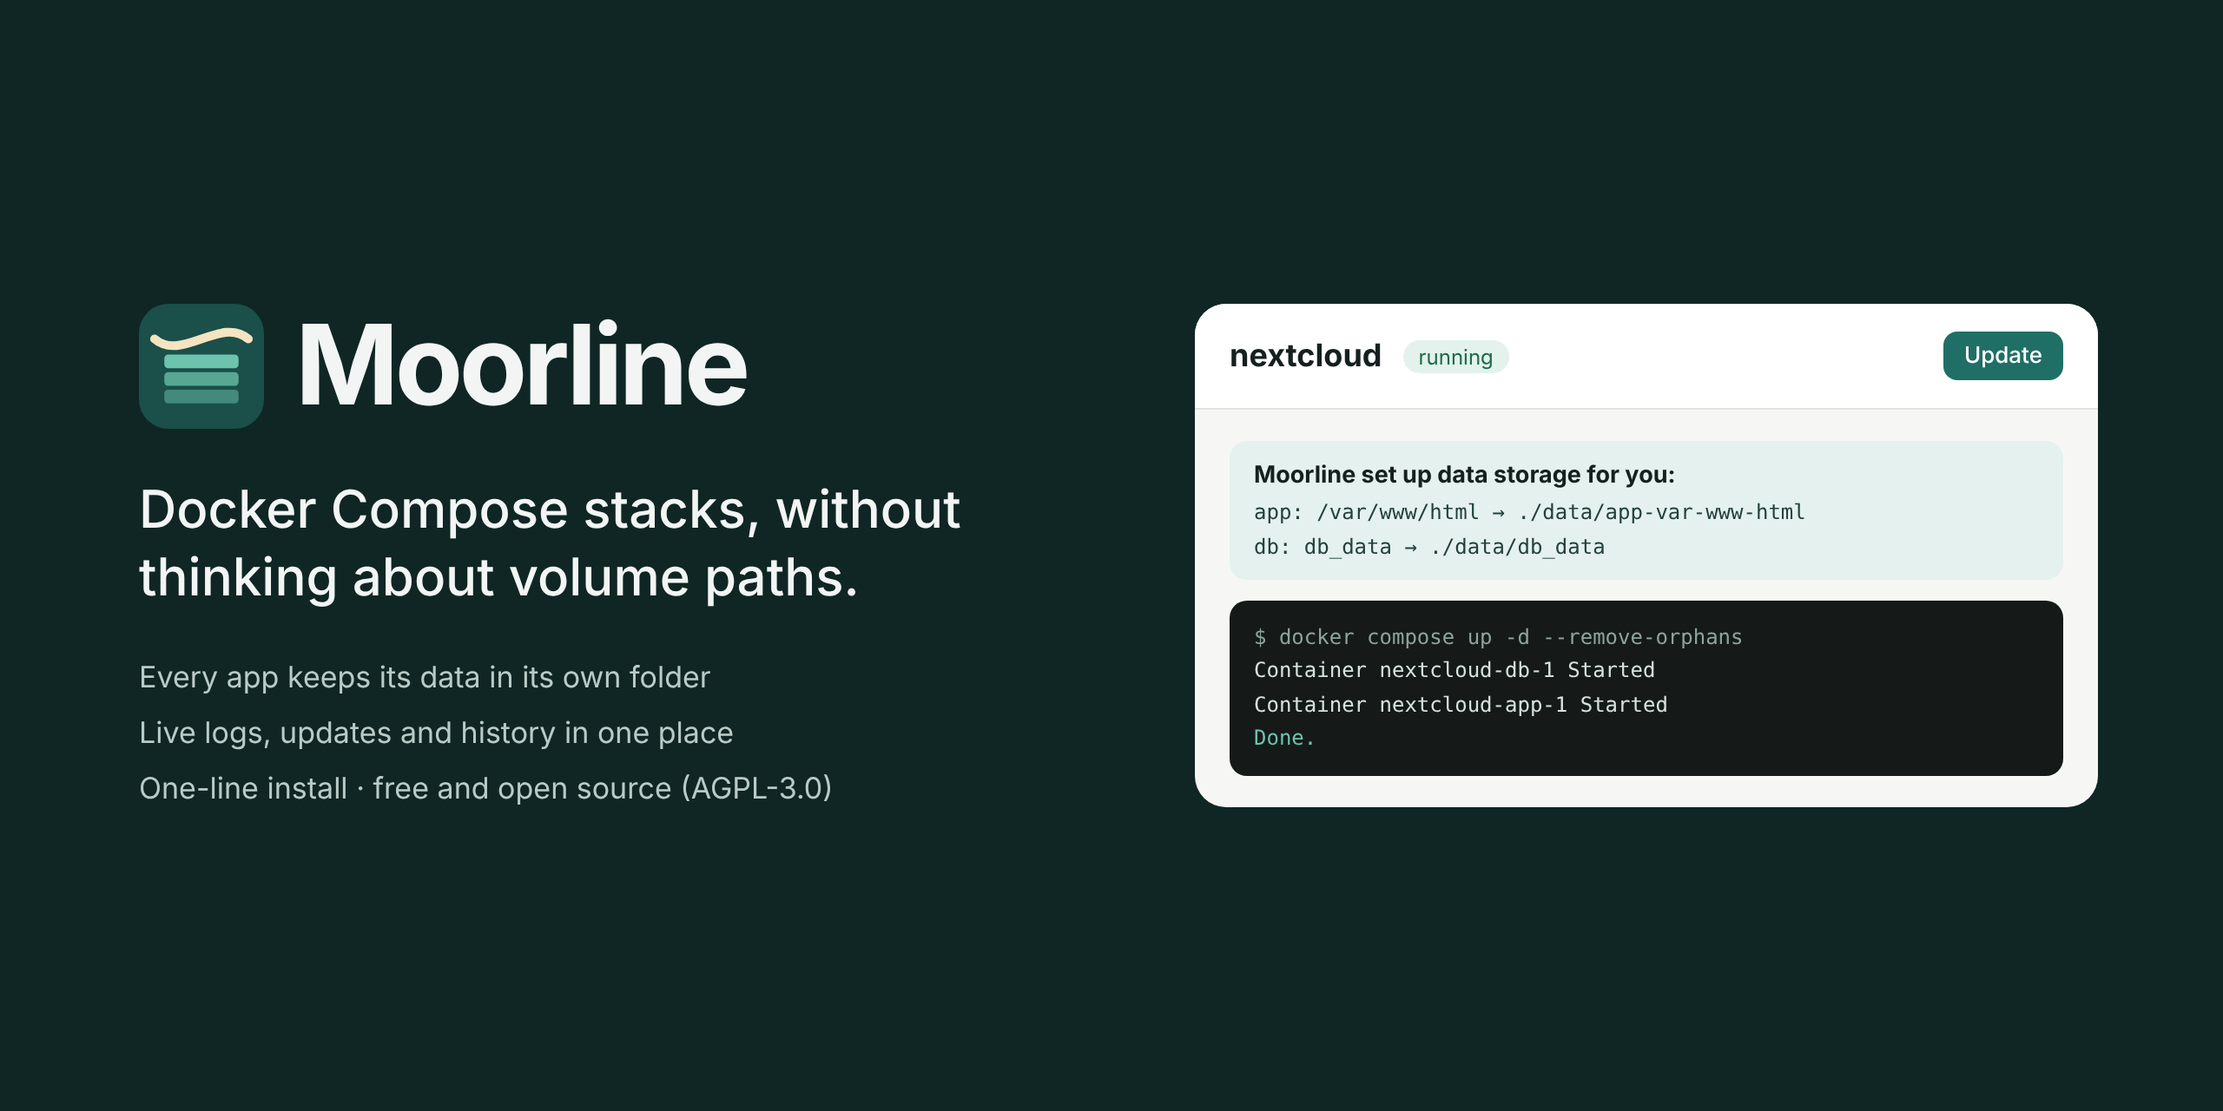
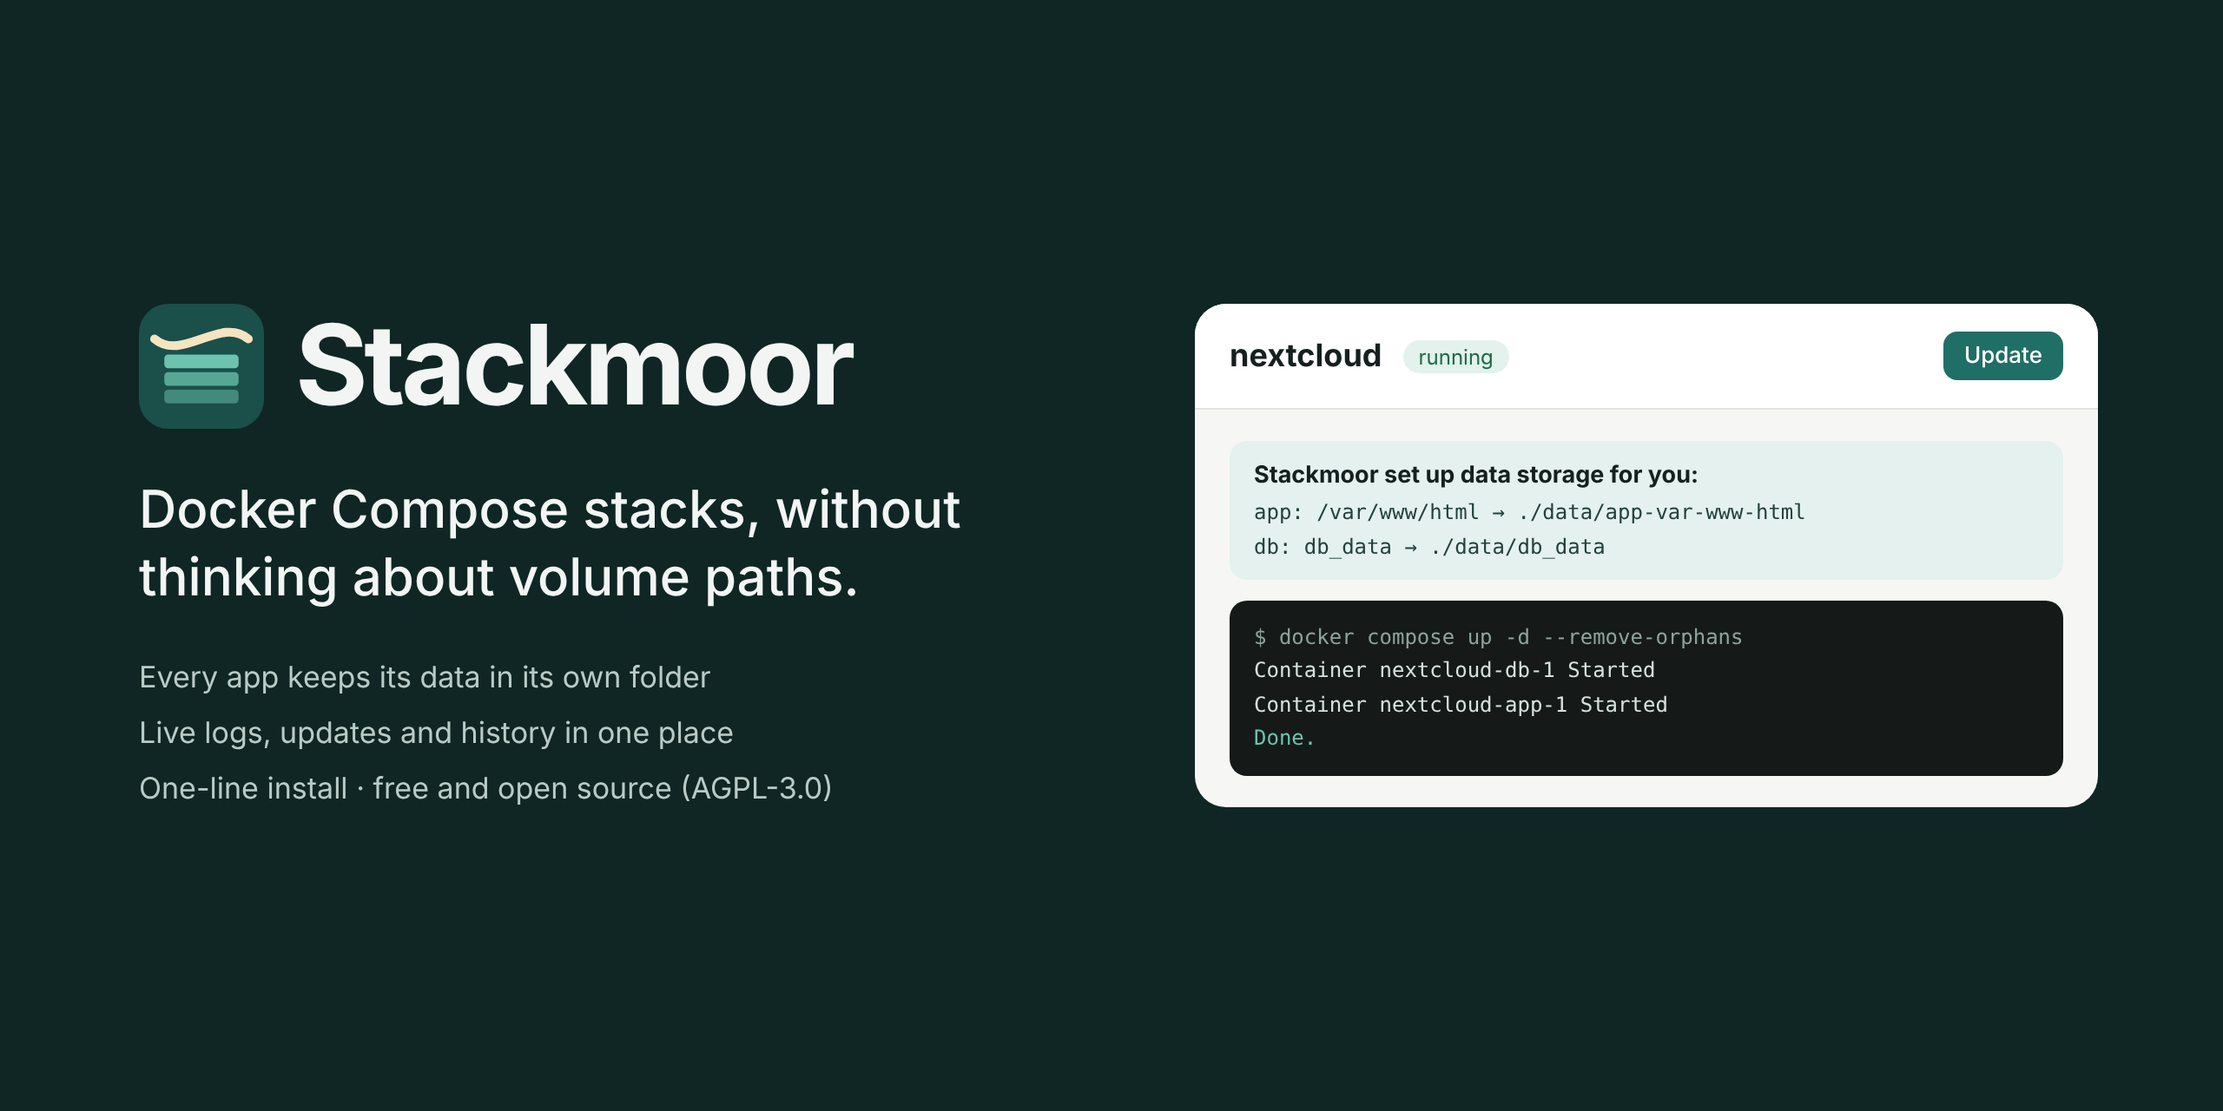
Rename Moorline to Stackmoor

Changed region(s): [[0.125, 0.2812, 0.375, 0.375], [0.5625, 0.4062, 0.75, 0.4375]]

diff --git a/public/i18n.js b/public/i18n.js
@@ -4,7 +4,7 @@ export const LANGS = { en: 'English', pl: 'Polski' };
 
 const dict = {
   en: {
-    'auth.welcome': 'Welcome to Moorline',
+    'auth.welcome': 'Welcome to Stackmoor',
     'auth.login': 'Log in',
     'auth.setupLead': 'Create the administrator account. It will be the only account in the panel.',
     'auth.loginLead': 'Docker Compose stack manager.',
@@ -144,7 +144,7 @@ const dict = {
     'dom.internalHint': 'Caddy uses its own certificate authority. Browsers will warn until you trust Caddy’s root certificate on your devices. Good for testing or when your DNS provider is not on the list.',
     'dom.email': 'E-mail for Let’s Encrypt',
     'dom.panelSub': 'Address of this panel',
-    'dom.panelSubHint': 'E.g. <code>moorline</code> → the panel is also available at moorline.&lt;domain&gt;.',
+    'dom.panelSubHint': 'E.g. <code>stackmoor</code> → the panel is also available at stackmoor.&lt;domain&gt;.',
     'dom.advanced': 'Advanced: ports',
     'dom.portsHint': 'Ports Caddy uses on this server. Change them if 80/443 are taken – e.g. on Unraid, where its own web UI uses them.',
     'dom.saveApply': 'Save and apply',
@@ -158,16 +158,16 @@ const dict = {
     'upd.never': 'Not checked yet.',
     'upd.checkNow': 'Check now',
     'upd.checking': 'Checking…',
-    'upd.upToDate': 'Moorline is up to date.',
+    'upd.upToDate': 'Stackmoor is up to date.',
     'upd.checkError': 'Could not check for updates (no internet access?).',
-    'upd.newVersion': 'Moorline {version} is available',
-    'upd.newBuild': 'A newer build of Moorline is available',
+    'upd.newVersion': 'Stackmoor {version} is available',
+    'upd.newBuild': 'A newer build of Stackmoor is available',
     'upd.newBuildShort': 'the newer build',
     'upd.releaseLink': 'What’s new',
-    'upd.apply': 'Update Moorline',
-    'upd.confirm': 'Update Moorline to {version}? The panel restarts for a moment; your stacks keep running.',
+    'upd.apply': 'Update Stackmoor',
+    'upd.confirm': 'Update Stackmoor to {version}? The panel restarts for a moment; your stacks keep running.',
     'upd.restarting': 'Updating… The panel will restart and this page reloads by itself.',
-    'upd.how.unraid': 'Update it in Unraid: Docker tab → Check for Updates → Update next to moorline.',
+    'upd.how.unraid': 'Update it in Unraid: Docker tab → Check for Updates → Update next to stackmoor.',
     'upd.how.pinned': 'The panel runs a fixed image version ({tag}). Change the image tag to <code>latest</code> or to the new version and recreate the container.',
     'upd.how.manual': 'Update it the same way you installed it – e.g. run <code>install.sh</code> again, or <code>docker compose pull &amp;&amp; docker compose up -d</code> in its folder.',
     'upd.how.none': 'Update it the same way you installed it.',
@@ -194,7 +194,7 @@ const dict = {
   },
 
   pl: {
-    'auth.welcome': 'Witaj w Moorline',
+    'auth.welcome': 'Witaj w Stackmoor',
     'auth.login': 'Zaloguj się',
     'auth.setupLead': 'Utwórz konto administratora. Będzie jedynym kontem w panelu.',
     'auth.loginLead': 'Panel zarządzania stackami Docker Compose.',
@@ -334,7 +334,7 @@ const dict = {
     'dom.internalHint': 'Caddy używa własnego urzędu certyfikacji. Przeglądarki będą ostrzegać, dopóki nie zaufasz certyfikatowi głównemu Caddy na swoich urządzeniach. Dobre do testów albo gdy Twojego dostawcy DNS nie ma na liście.',
     'dom.email': 'E-mail dla Let’s Encrypt',
     'dom.panelSub': 'Adres tego panelu',
-    'dom.panelSubHint': 'Np. <code>moorline</code> → panel będzie też dostępny pod moorline.&lt;domena&gt;.',
+    'dom.panelSubHint': 'Np. <code>stackmoor</code> → panel będzie też dostępny pod stackmoor.&lt;domena&gt;.',
     'dom.advanced': 'Zaawansowane: porty',
     'dom.portsHint': 'Porty, których Caddy używa na tym serwerze. Zmień je, jeśli 80/443 są zajęte – np. na Unraid, gdzie używa ich jego własny panel.',
     'dom.saveApply': 'Zapisz i zastosuj',
@@ -348,16 +348,16 @@ const dict = {
     'upd.never': 'Jeszcze nie sprawdzano.',
     'upd.checkNow': 'Sprawdź teraz',
     'upd.checking': 'Sprawdzam…',
-    'upd.upToDate': 'Moorline jest aktualny.',
+    'upd.upToDate': 'Stackmoor jest aktualny.',
     'upd.checkError': 'Nie udało się sprawdzić aktualizacji (brak internetu?).',
-    'upd.newVersion': 'Dostępny jest Moorline {version}',
-    'upd.newBuild': 'Dostępna jest nowsza kompilacja Moorline',
+    'upd.newVersion': 'Dostępny jest Stackmoor {version}',
+    'upd.newBuild': 'Dostępna jest nowsza kompilacja Stackmoor',
     'upd.newBuildShort': 'nowszej kompilacji',
     'upd.releaseLink': 'Co nowego',
-    'upd.apply': 'Aktualizuj Moorline',
-    'upd.confirm': 'Zaktualizować Moorline do {version}? Panel na chwilę się zrestartuje, stacki działają dalej.',
+    'upd.apply': 'Aktualizuj Stackmoor',
+    'upd.confirm': 'Zaktualizować Stackmoor do {version}? Panel na chwilę się zrestartuje, stacki działają dalej.',
     'upd.restarting': 'Aktualizuję… Panel się zrestartuje, a ta strona odświeży się sama.',
-    'upd.how.unraid': 'Zaktualizuj w Unraid: zakładka Docker → Check for Updates → Update przy moorline.',
+    'upd.how.unraid': 'Zaktualizuj w Unraid: zakładka Docker → Check for Updates → Update przy stackmoor.',
     'upd.how.pinned': 'Panel działa na stałej wersji obrazu ({tag}). Zmień tag obrazu na <code>latest</code> albo na nową wersję i odtwórz kontener.',
     'upd.how.manual': 'Zaktualizuj tak, jak instalowałeś – np. uruchom ponownie <code>install.sh</code> albo <code>docker compose pull &amp;&amp; docker compose up -d</code> w jego folderze.',
     'upd.how.none': 'Zaktualizuj tak, jak instalowałeś.',
@@ -386,7 +386,7 @@ const dict = {
 
 function detect() {
   try {
-    const saved = localStorage.getItem('ml-lang');
+    const saved = localStorage.getItem('sm-lang');
     if (saved && dict[saved]) return saved;
   } catch { /* localStorage unavailable */ }
   const nav = (navigator.language || 'en').slice(0, 2).toLowerCase();
@@ -399,7 +399,7 @@ export function setLang(code) {
   if (!dict[code]) return;
   lang = code;
   document.documentElement.lang = code;
-  try { localStorage.setItem('ml-lang', code); } catch { /* ignore */ }
+  try { localStorage.setItem('sm-lang', code); } catch { /* ignore */ }
 }
 
 // Values passed as {variables} must already be HTML-safe (use esc() before passing them).

diff --git a/public/app.js b/public/app.js
@@ -1,4 +1,4 @@
-// Moorline UI – no framework, no build step.
+// Stackmoor UI – no framework, no build step.
 import { t, lang, setLang, LANGS } from './i18n.js';
 
 const app = document.getElementById('app');
@@ -30,7 +30,7 @@ function toast(msg) {
 
 const headers = (json) => ({
   ...(json ? { 'Content-Type': 'application/json' } : {}),
-  'X-Requested-With': 'moorline',
+  'X-Requested-With': 'stackmoor',
   'X-Lang': lang,
 });
 
@@ -145,7 +145,7 @@ function renderAuth() {
   app.innerHTML = `
     <div class="auth"><form class="card" id="auth">
       <div class="row" style="justify-content:space-between;align-items:flex-start">
-        <img src="/logo.svg" alt="Moorline" width="52" height="52">${langSelect('auth-lang')}
+        <img src="/logo.svg" alt="Stackmoor" width="52" height="52">${langSelect('auth-lang')}
       </div>
       <h1>${t(setup ? 'auth.welcome' : 'auth.login')}</h1>
       <p>${t(setup ? 'auth.setupLead' : 'auth.loginLead')}</p>
@@ -189,7 +189,7 @@ function renderShell() {
     app.innerHTML = `
       <div class="layout">
         <aside class="sidebar">
-          <a class="brand" href="#/" title="${esc(t('home.title'))}">${LOGO}<span>Moorline</span></a><span class="version">${esc(state.version)}</span>
+          <a class="brand" href="#/" title="${esc(t('home.title'))}">${LOGO}<span>Stackmoor</span></a><span class="version">${esc(state.version)}</span>
           <a class="update-pill" id="panel-update" href="#/settings/updates" hidden></a>
           <a class="btn primary new" href="#/new"><span class="lbl-long">${t('nav.newStack')}</span><span class="lbl-short">${t('nav.newShort')}</span></a>
           <ul class="stack-list" id="stack-list"></ul>
@@ -199,7 +199,7 @@ function renderShell() {
           </div>
         </aside>
         <div class="main-wrap"><div id="global-warning"></div><main class="main" id="main"></main></div>
-        <nav class="bottom-nav" aria-label="Moorline">
+        <nav class="bottom-nav" aria-label="Stackmoor">
           <a href="#/" data-nav="home">${t('home.title')}</a>
           <a href="#/settings" data-nav="settings">${t('nav.settings')}</a>
         </nav>
@@ -717,7 +717,7 @@ function settingsUpdates(body, s) {
 
   body.innerHTML = `
     <div class="card">
-      <h2>Moorline</h2>
+      <h2>Stackmoor</h2>
       <div class="kv">
         <span>${t('upd.current')}</span><strong>${esc(showVersion(p.current || state.version.replace(/^v/, '')))}</strong>
         <span>${t('upd.latest')}</span><strong>${esc(showVersion(p.latest) || '—')}</strong>
@@ -858,7 +858,7 @@ async function settingsDomains(body) {
       <div class="field"><label for="dom-email">${t('dom.email')} <span class="hint">${t('new.envOptional')}</span></label>
         <input type="text" id="dom-email" value="${esc(d.acmeEmail)}" placeholder="you@example.com" autocapitalize="off"></div>
       <div class="field"><label for="dom-panel">${t('dom.panelSub')} <span class="hint">${t('new.envOptional')}</span></label>
-        <input type="text" id="dom-panel" value="${esc(d.panelSubdomain)}" placeholder="moorline" autocapitalize="off">
+        <input type="text" id="dom-panel" value="${esc(d.panelSubdomain)}" placeholder="stackmoor" autocapitalize="off">
         <p class="hint">${t('dom.panelSubHint')}</p></div>
       <details class="field"><summary>${t('dom.advanced')}</summary>
         <div class="row" style="margin-top:10px">

diff --git a/src/domains.js b/src/domains.js
@@ -9,16 +9,16 @@ import { encrypt, decrypt, mask } from './secrets.js';
 import { PROVIDERS, providerById, providerJson } from './dns-providers.js';
 import { publishedPorts, findConflicts } from './ports.js';
 
-// Local domains: one Caddy container ("moorline-caddy") in front of all stacks.
+// Local domains: one Caddy container ("stackmoor-caddy") in front of all stacks.
 // - It holds one wildcard certificate (*.domain) obtained through the DNS provider's API,
 //   so the server never has to be reachable from the internet.
-// - Stacks with a domain join the shared "moorline" network (via compose.moorline.yaml),
+// - Stacks with a domain join the shared "stackmoor" network (via compose.stackmoor.yaml),
 //   and Caddy proxies <sub>.<domain> to "<container>:<port>".
 // - Config is JSON written to disk and loaded with `caddy reload` – no admin port exposed.
 
-export const NETWORK = 'moorline';
-const CADDY = 'moorline-caddy';
-const OVERRIDE = 'compose.moorline.yaml';
+export const NETWORK = 'stackmoor';
+const CADDY = 'stackmoor-caddy';
+const OVERRIDE = 'compose.stackmoor.yaml';
 const SUBDOMAIN_RE = /^[a-z0-9]([a-z0-9-]{0,61}[a-z0-9])?$/;
 const DOMAIN_RE = /^(?=.{3,253}$)([a-z0-9]([a-z0-9-]{0,61}[a-z0-9])?\.)+[a-z]{2,63}$/;
 
@@ -30,8 +30,8 @@ const writeFile = (file, content, mode = 0o644) => {
 };
 
 export function createDomains({ db, stacks, stacksDir, getSettings, saveSettings }) {
-  const caddyDir = path.join(stacksDir, '.moorline', 'caddy');
-  const image = process.env.MOORLINE_CADDY_IMAGE || 'ghcr.io/gadziunet/moorline-caddy:latest';
+  const caddyDir = path.join(stacksDir, '.stackmoor', 'caddy');
+  const image = process.env.STACKMOOR_CADDY_IMAGE || 'ghcr.io/gadziunet/stackmoor-caddy:latest';
   const panelPort = Number(process.env.PORT || 5001);
 
   // ---------- credentials ----------
@@ -142,7 +142,7 @@ export function createDomains({ db, stacks, stacksDir, getSettings, saveSettings
     db.prepare('DELETE FROM routes WHERE stack = ?').run(stack);
   }
 
-  /** compose.moorline.yaml: adds the routed services to the shared network (keeping their own). */
+  /** compose.stackmoor.yaml: adds the routed services to the shared network (keeping their own). */
   async function writeOverride(stack) {
     const file = path.join(stacks.stackDir(stack), OVERRIDE);
     const list = routes(stack);
@@ -165,7 +165,7 @@ export function createDomains({ db, stacks, stacksDir, getSettings, saveSettings
       services,
       networks: { [NETWORK]: { external: true, name: NETWORK } },
     };
-    writeFile(file, `# Generated by Moorline for local domains – do not edit, changes are overwritten.\n${stringify(doc)}`);
+    writeFile(file, `# Generated by Stackmoor for local domains – do not edit, changes are overwritten.\n${stringify(doc)}`);
   }
 
   /** Where Caddy should send traffic for a route. */
@@ -220,7 +220,7 @@ export function createDomains({ db, stacks, stacksDir, getSettings, saveSettings
           http_port: 80,
           https_port: 443,
           servers: {
-            moorline: {
+            stackmoor: {
               listen: [':443'],
               routes: hostRoutes.map((r) => ({
                 match: [{ host: [r.host] }],

diff --git a/src/stacks.js b/src/stacks.js
@@ -57,9 +57,9 @@ export function createStacks({ db, stacksDir, getSettings }) {
     return row ? row.auto_volumes === 1 : true;
   }
 
-  // Moorline-generated additions (e.g. joining the "moorline" network for domains)
+  // Stackmoor-generated additions (e.g. joining the "stackmoor" network for domains)
   // live in a separate override file, so the user's compose.yaml stays untouched.
-  const OVERRIDE = 'compose.moorline.yaml';
+  const OVERRIDE = 'compose.stackmoor.yaml';
   const base = (name, file) => {
     const args = [
       'compose', '--ansi', 'never', '--progress', 'plain',
@@ -259,10 +259,10 @@ export function createStacks({ db, stacksDir, getSettings }) {
     if (missingFiles.length) throw new UserError('files.missing', { list: missingFiles.join('\n') });
 
     await checkPorts(name, cfg);
-    // Stacks with a domain join the shared "moorline" network; make sure it exists.
+    // Stacks with a domain join the shared "stackmoor" network; make sure it exists.
     if (fs.existsSync(path.join(dir, OVERRIDE))) {
-      const net = await docker(['network', 'inspect', 'moorline']);
-      if (net.code !== 0) await docker(['network', 'create', 'moorline']);
+      const net = await docker(['network', 'inspect', 'stackmoor']);
+      if (net.code !== 0) await docker(['network', 'create', 'stackmoor']);
     }
     return file;
   }

diff --git a/test/ports.test.js b/test/ports.test.js
@@ -54,12 +54,12 @@ test('stacks folder mount detection', () => {
   const info = [
     '1 0 0:1 / / rw - overlay overlay rw',
     '2 1 0:2 / /app/data rw - ext4 /dev/sda1 rw',
-    '3 1 0:3 / /mnt/user/appdata/moorline/stacks rw - fuse shfs rw',
+    '3 1 0:3 / /mnt/user/appdata/stackmoor/stacks rw - fuse shfs rw',
     '4 1 0:4 / /my\\040folder rw - ext4 /dev/sdb1 rw',
   ].join('\n');
   const points = mountPoints(info);
   assert.ok(points.includes('/my folder'));
-  assert.equal(mountFor('/mnt/user/appdata/moorline/stacks', points), '/mnt/user/appdata/moorline/stacks');
+  assert.equal(mountFor('/mnt/user/appdata/stackmoor/stacks', points), '/mnt/user/appdata/stackmoor/stacks');
   assert.equal(mountFor('/opt/stacks', points), '/');
   assert.equal(mountFor('/app/data-other', points), '/');
 });

diff --git a/src/updates.js b/src/updates.js
@@ -6,12 +6,12 @@ import { VERSION, REPO, compareVersions, isSemver, newestTag } from './version.j
 import { remoteDigest, localDigests, parseImageRef } from './registry.js';
 
 const INTERVALS = { daily: 24 * 3600e3, weekly: 7 * 24 * 3600e3 };
-const UPDATER_NAME = 'moorline-updater';
+const UPDATER_NAME = 'stackmoor-updater';
 
 async function github(pathname) {
   try {
     const res = await fetch(`https://api.github.com/repos/${REPO}${pathname}`, {
-      headers: { Accept: 'application/vnd.github+json', 'User-Agent': 'moorline' },
+      headers: { Accept: 'application/vnd.github+json', 'User-Agent': 'stackmoor' },
       signal: AbortSignal.timeout(15000),
     });
     return res.ok ? await res.json() : null;

diff --git a/src/auth.js b/src/auth.js
@@ -1,6 +1,6 @@
 import crypto from 'node:crypto';
 
-const COOKIE = 'ml_session';
+const COOKIE = 'sm_session';
 const SESSION_TTL_MS = 7 * 24 * 60 * 60 * 1000;
 
 // --- passwords (scrypt from the standard library, no extra dependencies) ---
@@ -89,7 +89,7 @@ export function requireAuth(req, res, next) {
 // never adds on its own when a form is submitted from another site.
 export function requireAppHeader(req, res, next) {
   if (req.method === 'GET' || req.method === 'HEAD') return next();
-  if (req.get('X-Requested-With') !== 'moorline') {
+  if (req.get('X-Requested-With') !== 'stackmoor') {
     return res.status(403).json({ error: req.t('auth.badRequest') });
   }
   next();

diff --git a/src/version.js b/src/version.js
@@ -10,7 +10,7 @@ const pkg = JSON.parse(fs.readFileSync(path.join(__dirname, '..', 'package.json'
 export const VERSION =
   process.env.APP_VERSION && process.env.APP_VERSION !== 'dev' ? process.env.APP_VERSION : pkg.version;
 
-export const REPO = process.env.MOORLINE_REPO || 'gadziunet/moorline';
+export const REPO = process.env.STACKMOOR_REPO || 'gadziunet/stackmoor';
 
 const parse = (v) => {
   const m = String(v || '').trim().replace(/^v/, '').match(/^(\d+)\.(\d+)\.(\d+)(?:-([0-9A-Za-z.-]+))?$/);

diff --git a/test/domains.test.js b/test/domains.test.js
@@ -28,7 +28,7 @@ test('every provider has help in both languages', () => {
 });
 
 test('secrets are encrypted and can be read back', () => {
-  const dir = fs.mkdtempSync(path.join(os.tmpdir(), 'moorline-'));
+  const dir = fs.mkdtempSync(path.join(os.tmpdir(), 'stackmoor-'));
   initSecrets(dir);
   const blob = encrypt({ api_token: 'top-secret-1234' });
   assert.ok(!blob.includes('top-secret'));

diff --git a/src/server.js b/src/server.js
@@ -312,6 +312,6 @@ app.use((err, req, res, _next) => {
 });
 
 app.listen(config.port, config.host, () => {
-  console.log(`Moorline ${VERSION} listening on http://${config.host}:${config.port}`);
+  console.log(`Stackmoor ${VERSION} listening on http://${config.host}:${config.port}`);
   console.log(`Stacks: ${config.stacksDir}, panel data: ${config.dataDir}`);
 });

diff --git a/src/dns-providers.js b/src/dns-providers.js
@@ -1,4 +1,4 @@
-// DNS providers built into the moorline-caddy image (see caddy/Dockerfile).
+// DNS providers built into the stackmoor-caddy image (see caddy/Dockerfile).
 // Each entry maps the panel's form fields to the JSON of the matching caddy-dns module.
 // To add a provider: add it here AND to caddy/Dockerfile, then release a new version.
 

diff --git a/public/index.html b/public/index.html
@@ -4,7 +4,7 @@
   <meta charset="utf-8">
   <meta name="viewport" content="width=device-width, initial-scale=1">
   <meta name="color-scheme" content="light dark">
-  <title>Moorline</title>
+  <title>Stackmoor</title>
   <link rel="icon" type="image/svg+xml" href="/logo.svg">
   <link rel="stylesheet" href="/style.css">
 </head>
